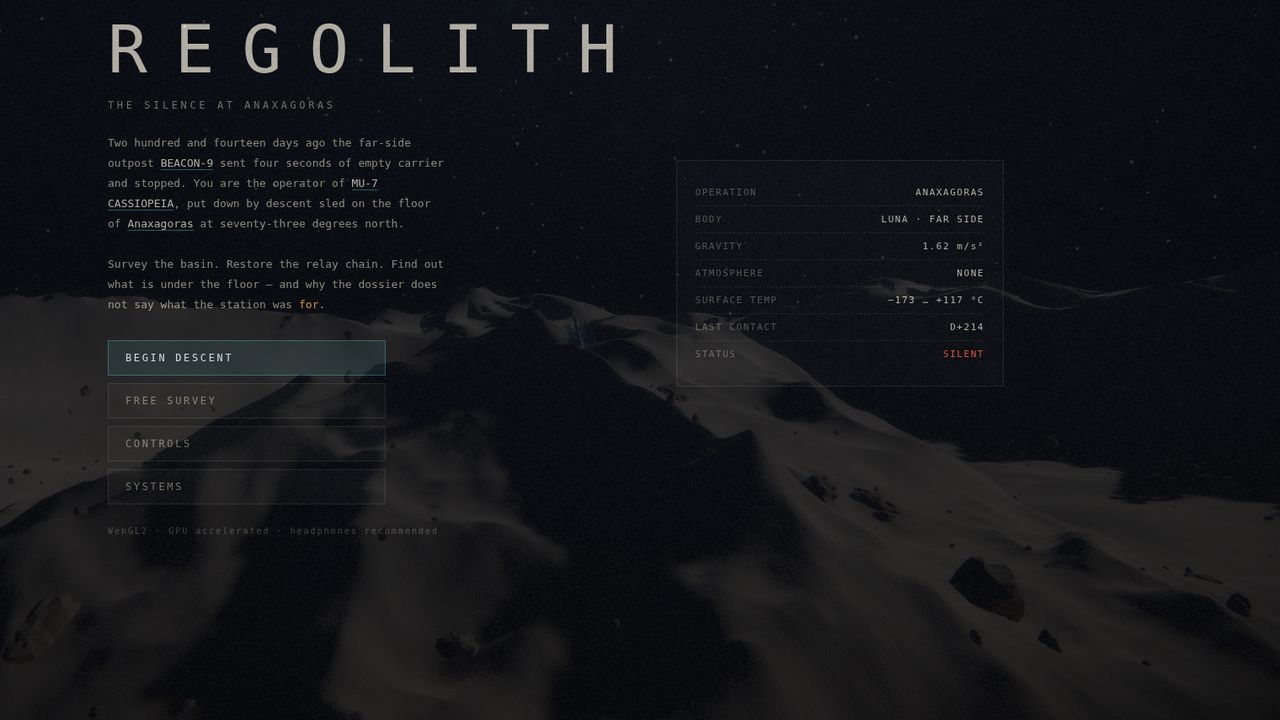
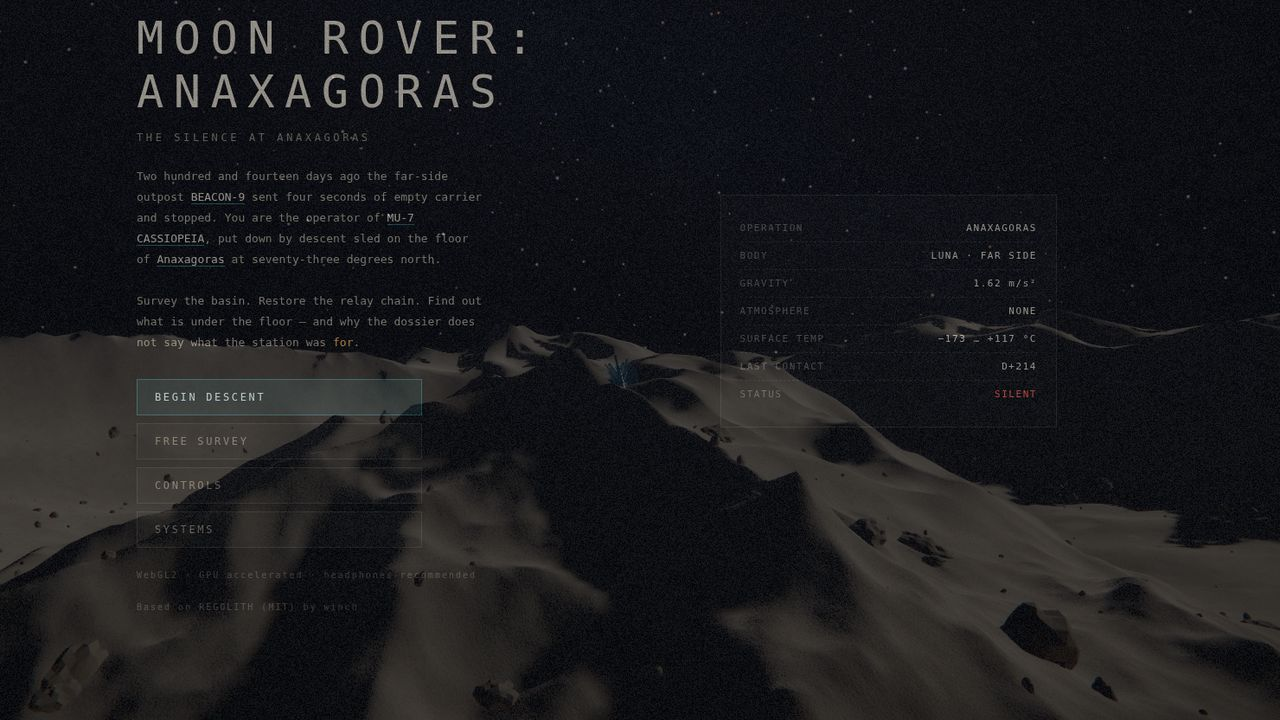
Moon Rover: Anaxagoras — drop REGOLITH from the listing name/meta/alt/FAQ; credit 'based on REGOLITH (MIT) by winch'; rename note; re-captured 01-title from the renamed live game; test notes from live-round-13

diff --git a/scripts/make-covers.py b/scripts/make-covers.py
@@ -9,7 +9,7 @@ GAMES = {  # slug: (title, 16:9 crop box on the 1920x1080 clean frame, centre x 
     "spud-fling": ("Spud Fling", (300, 40, 1920, 951), 1190),
     "pips-bloom-isle": ("Pip's Bloom Isle", (0, 0, 1920, 1080), 960),
     "merge-tiles": ("Merge Tiles", (0, 0, 1920, 1080), 960),  # H-09 classic: clean frame = live tsl-classics board slice
-    "moon-rover": ("Moon Rover: Anaxagoras", (0, 0, 1920, 1080), 960),  # REGOLITH classic: clean frame captured live at tsl-classics/moon-rover (HUD hidden)
+    "moon-rover": ("Moon Rover: Anaxagoras", (0, 0, 1920, 1080), 960),  # Moon Rover: Anaxagoras classic (based on REGOLITH (MIT) by winch): clean frame captured live at tsl-classics/moon-rover (HUD hidden)
 }
 
 def font(px):
